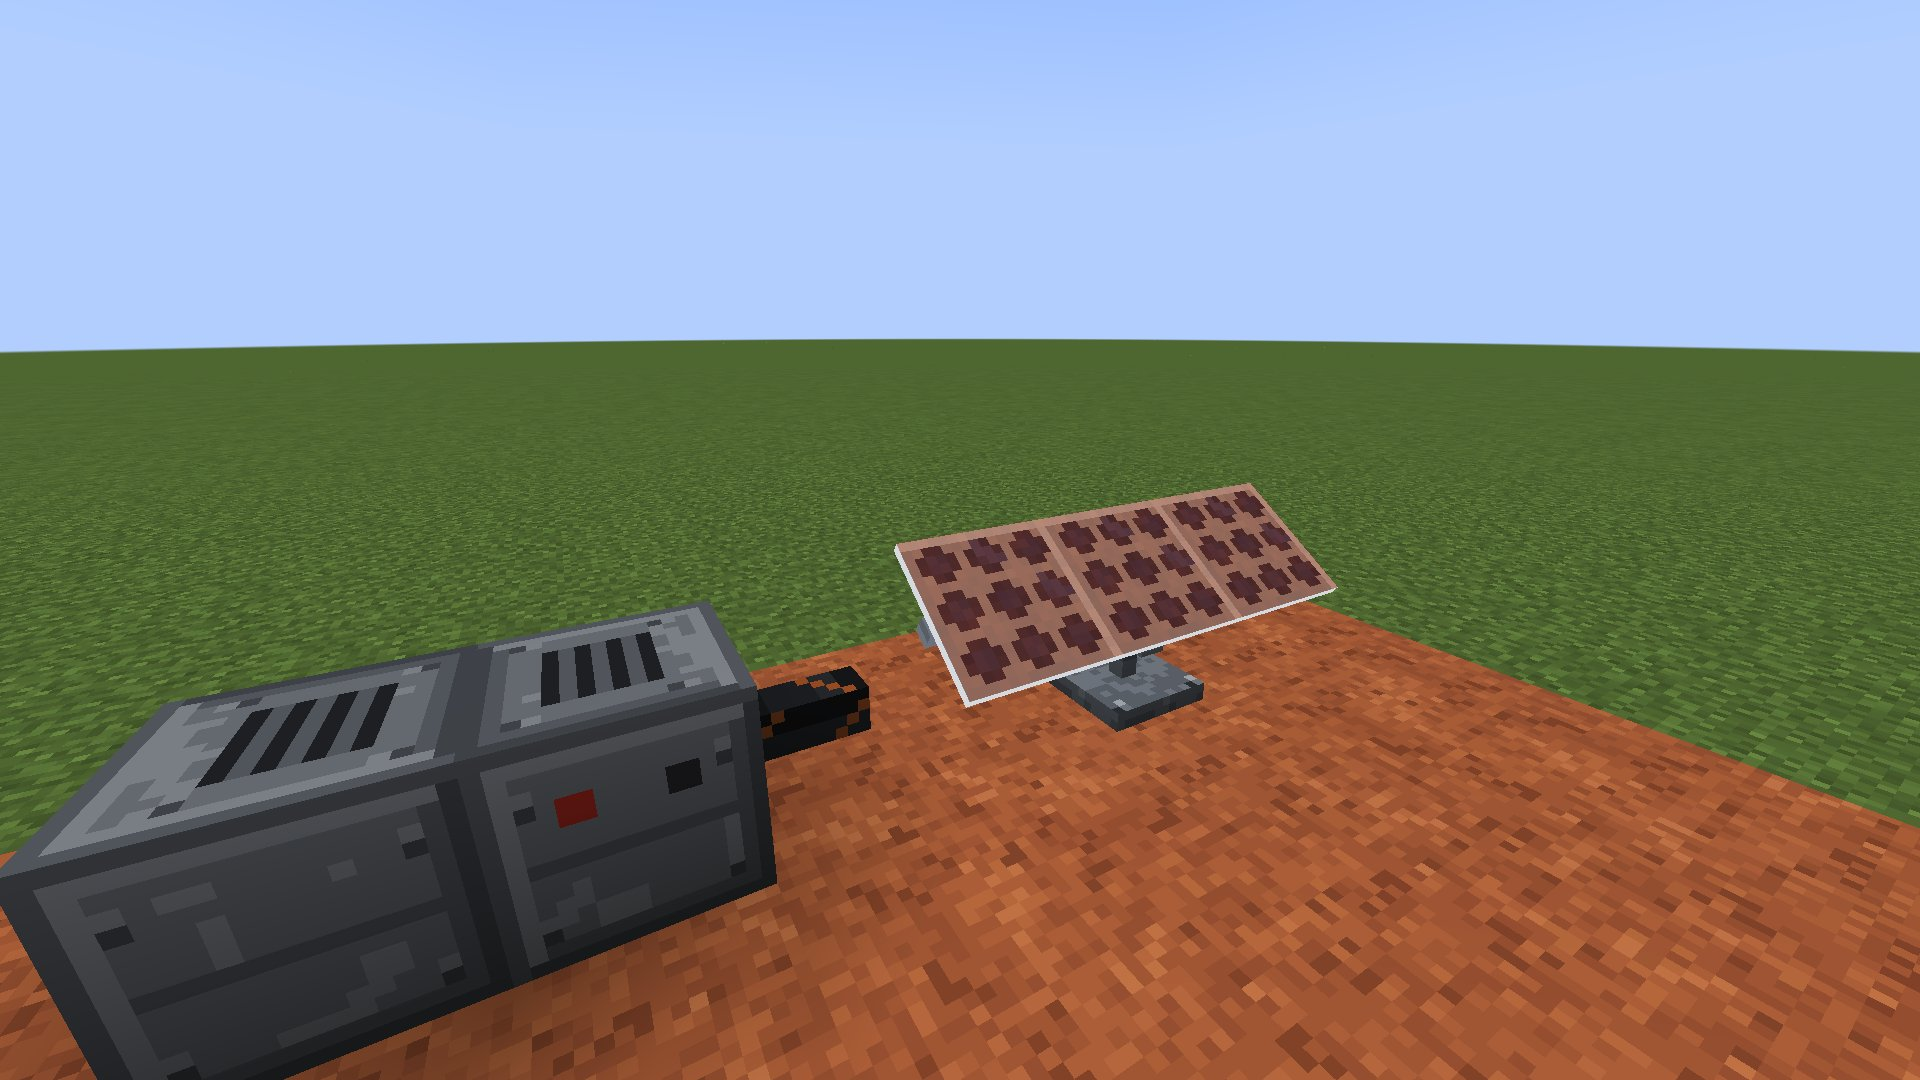
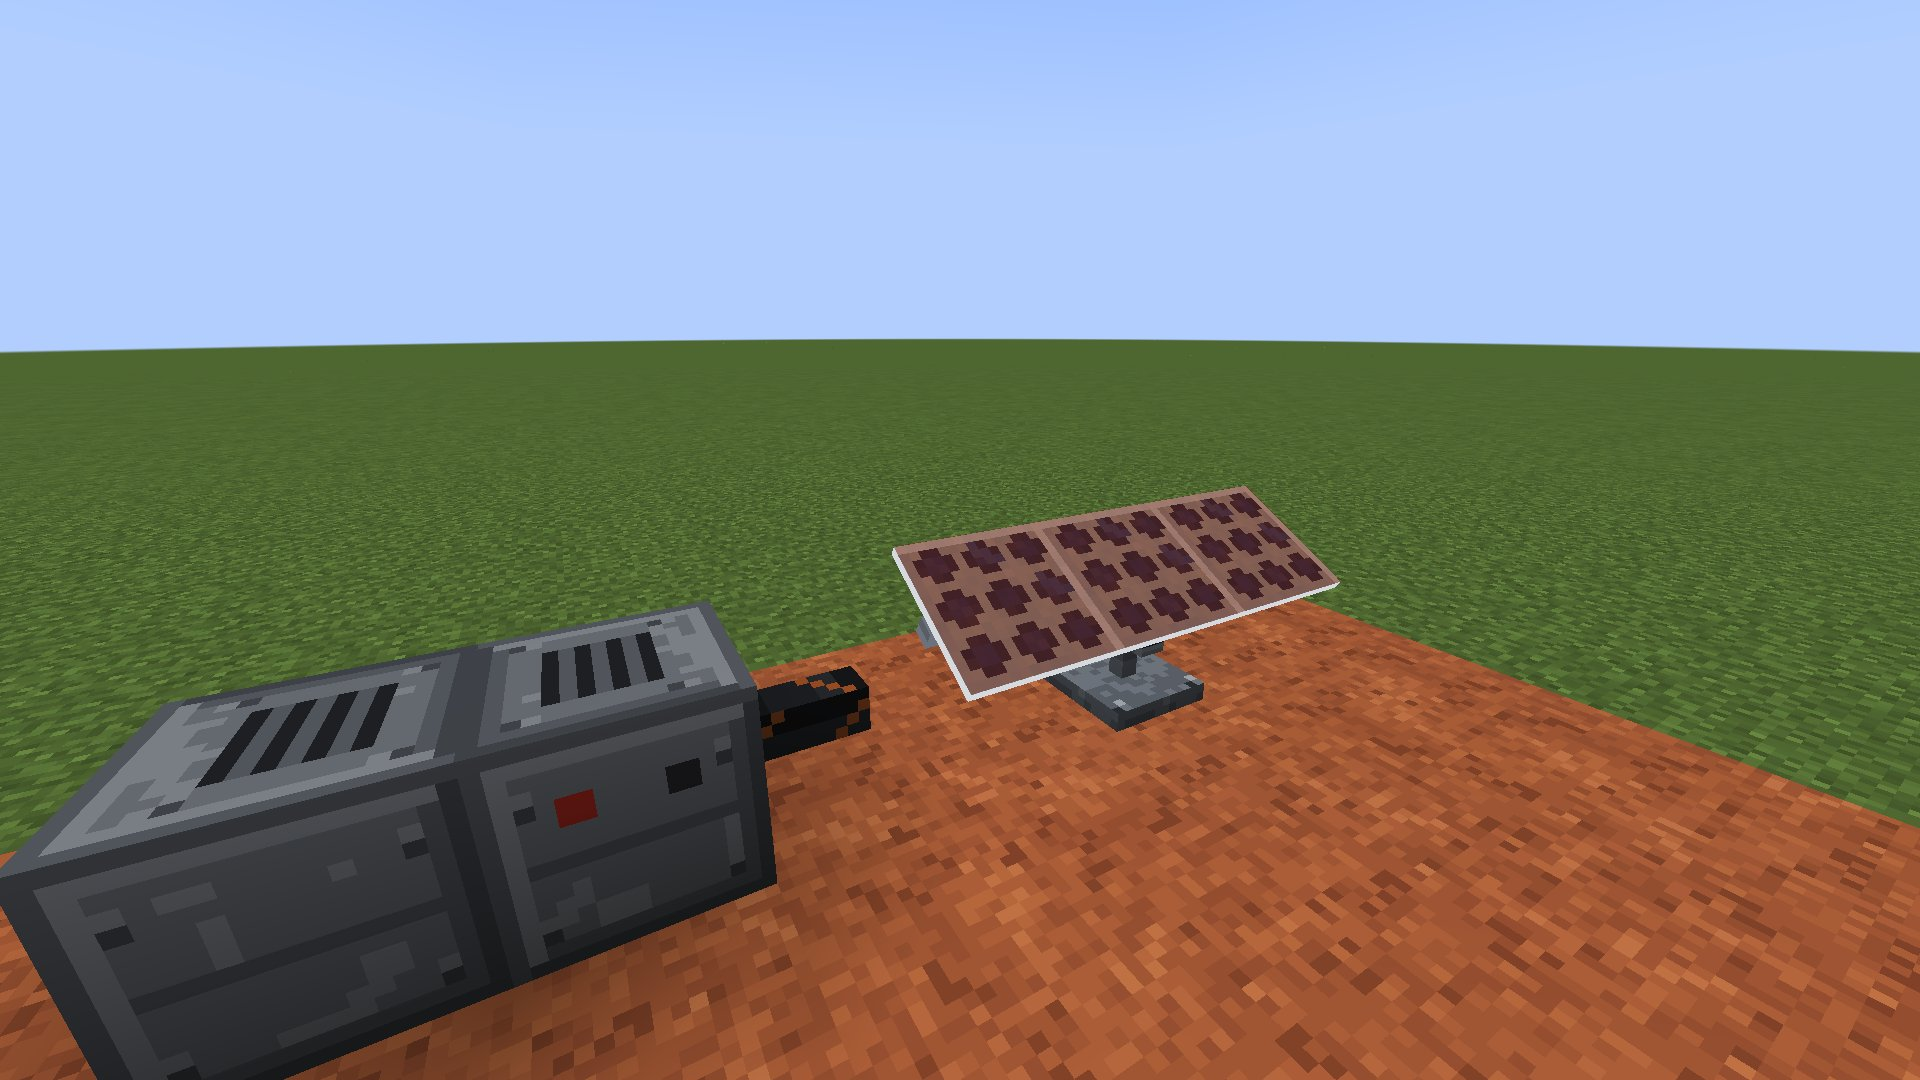
Darken settled dust to a rust-brown film that still lets the cells show at 80% cover

Changed region(s): [[0.4688, 0.4278, 0.7188, 0.6722]]

diff --git a/src/main/java/com/pizzaparker07/spacebreaker/client/machines/SolarPanelRenderer.java b/src/main/java/com/pizzaparker07/spacebreaker/client/machines/SolarPanelRenderer.java
@@ -63,7 +63,7 @@ public class SolarPanelRenderer implements BlockEntityRenderer<SolarPanelBlockEn
     /** A rust-coloured film of settled dust over the cells; thicker cover is more opaque. */
     private void renderDust(PoseStack pose, VertexConsumer out, float dust, int light) {
         TextureAtlasSprite sprite = Minecraft.getInstance().getTextureAtlas(InventoryMenu.BLOCK_ATLAS).apply(DUST_TEXTURE);
-        float alpha = Math.min(1F, dust * 0.45F); // the cells still show through: full cover keeps 60% output
+        float alpha = Math.min(1F, dust * 0.6F); // at 80% cover the cell pattern still shows faintly
         float y = 15.05F / 16F;
         float z0 = (float) (0.5 - reach);
         float z1 = (float) (0.5 + reach);
@@ -83,7 +83,7 @@ public class SolarPanelRenderer implements BlockEntityRenderer<SolarPanelBlockEn
     }
 
     private static void vertex(VertexConsumer out, PoseStack.Pose pose, float x, float y, float z, float u, float v, float alpha, int light) {
-        out.addVertex(pose, x, y, z).setColor(0.86F, 0.56F, 0.36F, alpha).setUv(u, v).setLight(light).setNormal(pose, 0, 1, 0);
+        out.addVertex(pose, x, y, z).setColor(0.66F, 0.38F, 0.24F, alpha).setUv(u, v).setLight(light).setNormal(pose, 0, 1, 0);
     }
 
     @Override

diff --git a/src/testmod/java/com/pizzaparker07/spacebreaker/testmod/showcase/IndustryScenario.java b/src/testmod/java/com/pizzaparker07/spacebreaker/testmod/showcase/IndustryScenario.java
@@ -261,14 +261,14 @@ final class IndustryScenario implements ShowcaseScenario {
 
     /** Settled dust in steps across the tracker row, the station array fully covered. */
     private static void dustPanels(ServerPlayer player) {
-        float[] cover = {0.3F, 0.65F, 1F};
+        float[] cover = {0.3F, 0.55F, 0.8F};
         for (int i = 0; i < cover.length; i++) {
             if (player.level().getBlockEntity(new BlockPos(ISRU_X - 3 + i, F + 1, 5)) instanceof com.pizzaparker07.spacebreaker.content.machines.SolarPanelBlockEntity be) {
                 be.setDust(cover[i]);
             }
         }
         if (player.level().getBlockEntity(new BlockPos(ISRU_X - 4, F + 1, -1)) instanceof com.pizzaparker07.spacebreaker.content.machines.SolarPanelBlockEntity be) {
-            be.setDust(1F);
+            be.setDust(0.8F);
         }
     }
 
